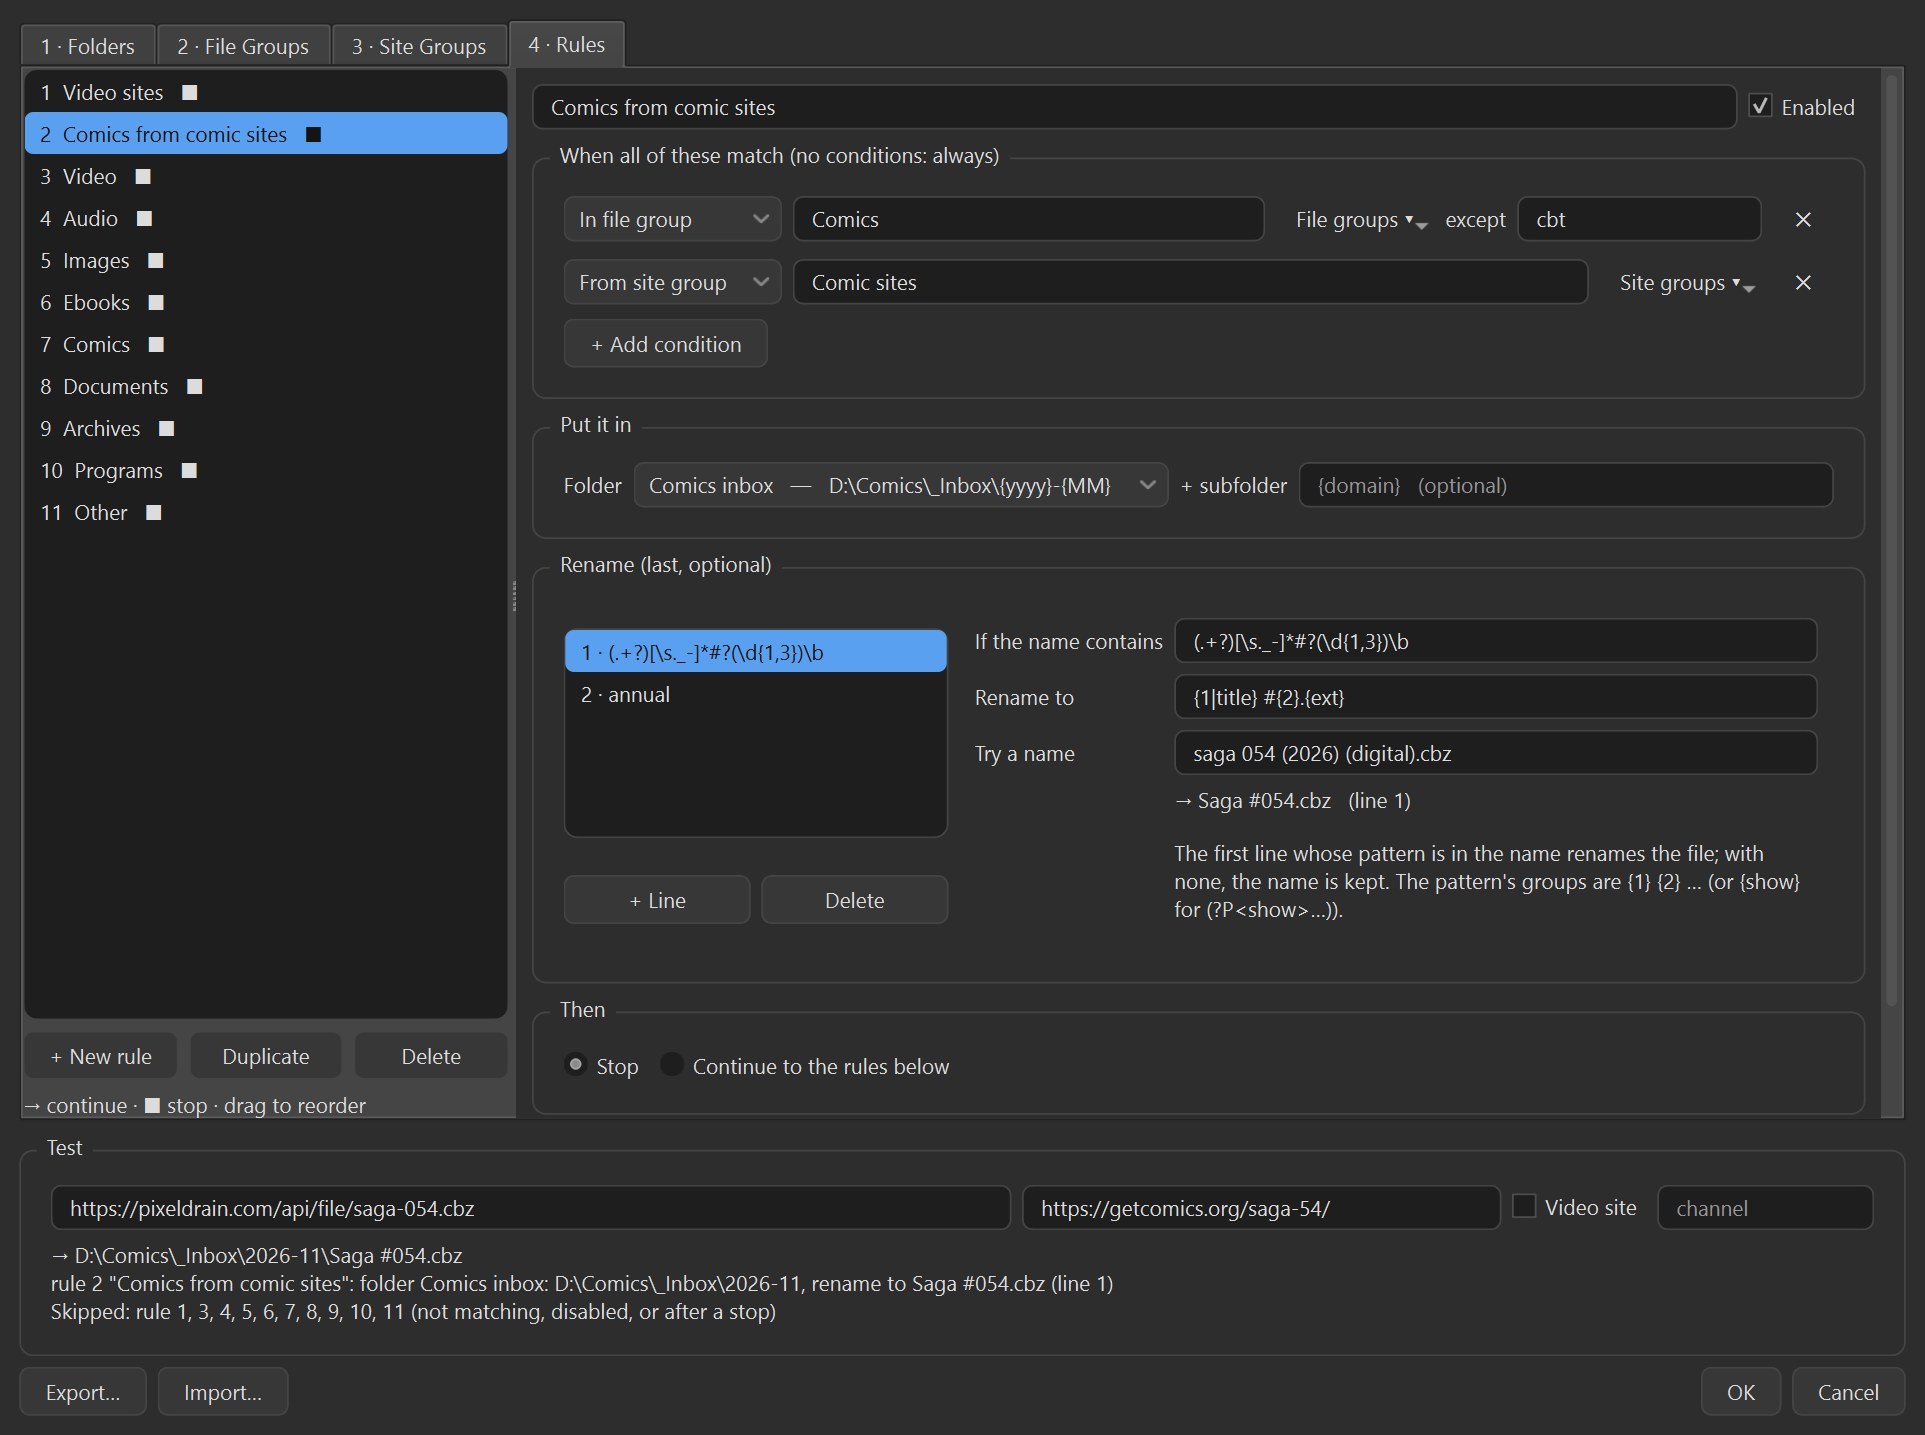
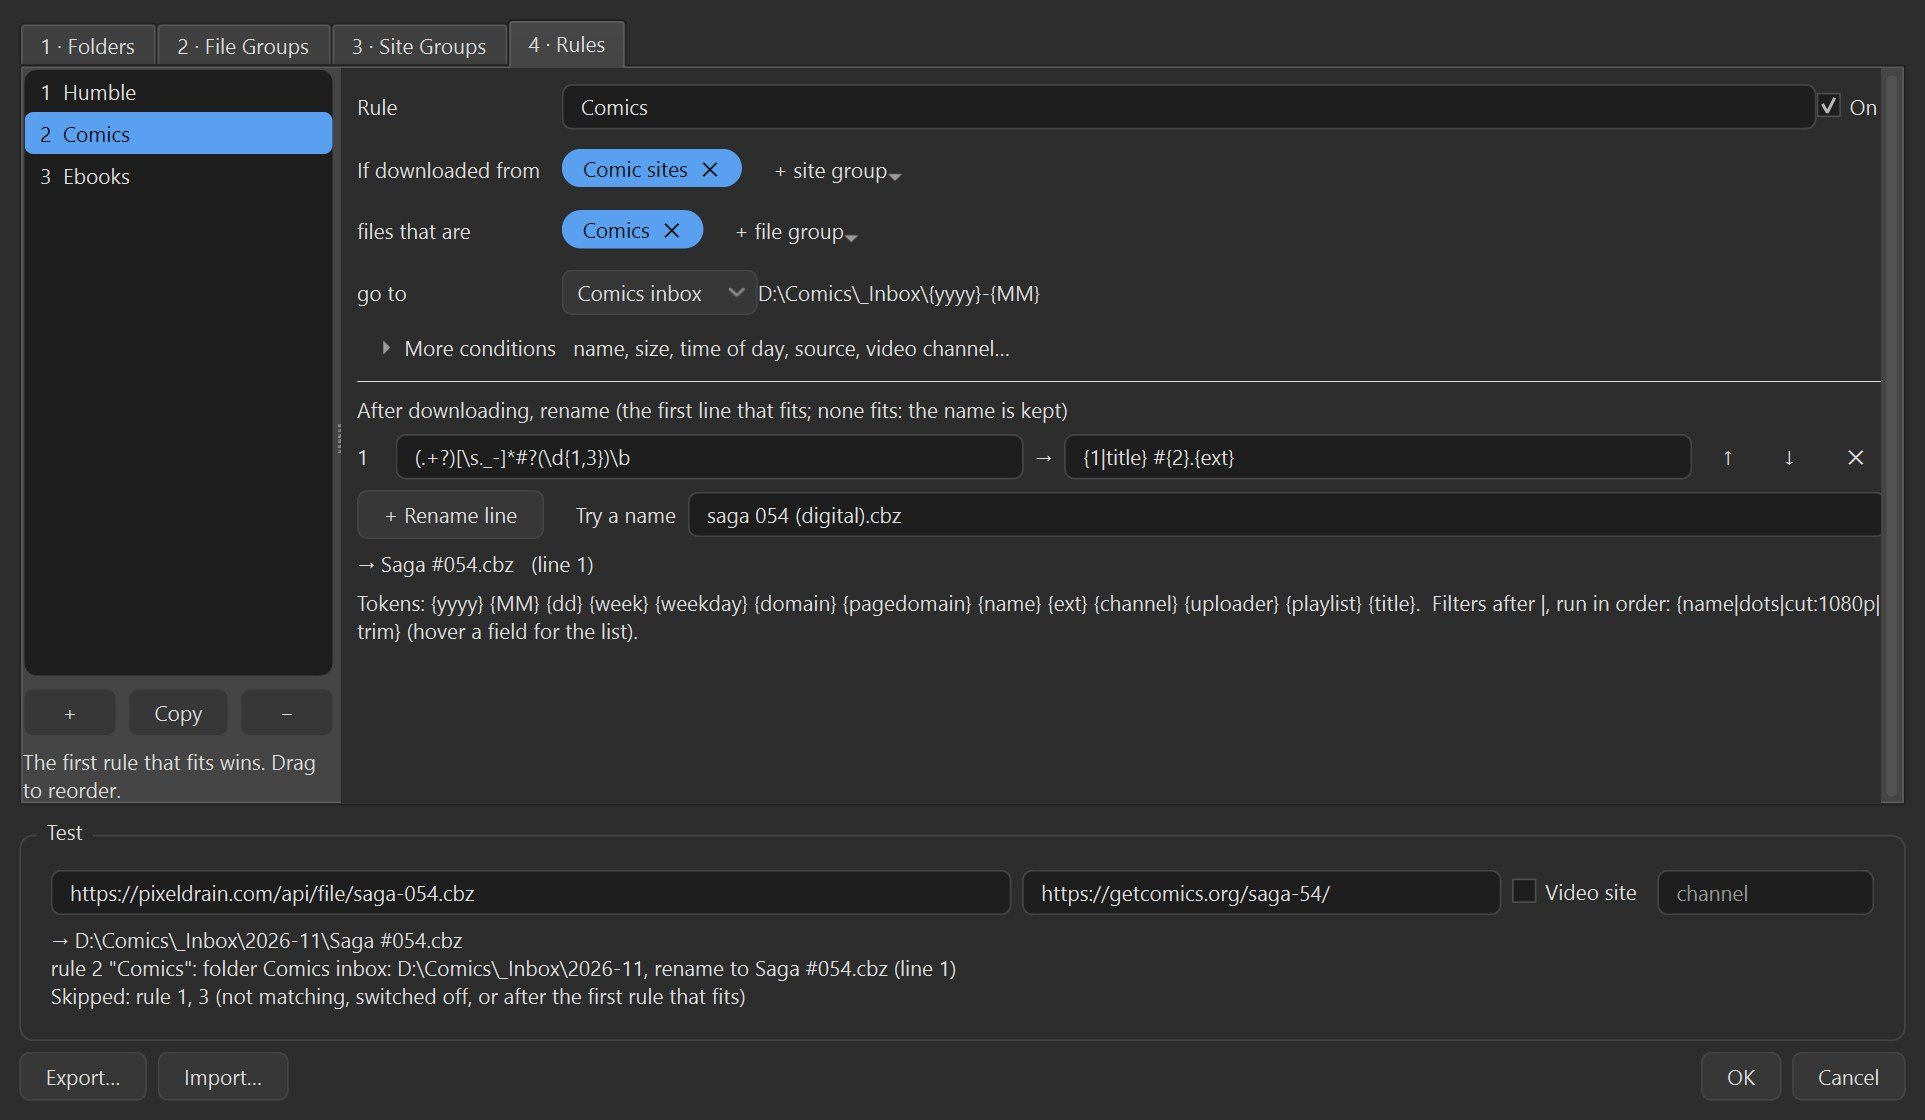
Accipio 2026-11-04#06: rules as one sentence, new Rules screenshot

diff --git a/accipio/index.html b/accipio/index.html
@@ -28,13 +28,13 @@
   "codeRepository": "https://github.com/Erlbon/accipio",
   "operatingSystem": "Windows 10, Windows 11",
   "applicationCategory": "UtilitiesApplication",
-  "softwareVersion": "2026-11-04#04",
+  "softwareVersion": "2026-11-04#06",
   "license": "https://opensource.org/license/mit",
   "screenshot": "https://erlbon.github.io/assets/img/screenshots/accipio-main-dark.jpg",
   "featureList": [
     "Named folders, file groups and site groups that rules point at, so one change moves every rule that uses them",
-    "An ordered list of rules, sorted by drag and drop, each stopping or letting the next rule add to it",
-    "Conditions: file group (with extensions left out per rule), site group matched on the page you clicked on, name (wildcards or regular expressions), size, time of day and weekday, and a video's channel, uploader, playlist or title",
+    "Rules written as one sentence: from these site groups, these file groups, to this folder; the first rule that fits wins",
+    "Conditions: file groups and site groups picked as chips (a site matched on the page you clicked on), and under More conditions name (wildcards or regular expressions), size, time of day and weekday, and a video's channel, uploader, playlist or title",
     "Folder templates with date tokens ({yyyy}, {MM}, {week}...) so folders rotate by the clock; missing folders are created",
     "A renamer at the end of a rule: regular-expression lines, the first that fits renames the file, with a try-it field",
     "Export and import of rules, folders and groups between PCs",
@@ -74,7 +74,7 @@
     <a class="btn secondary" href="https://github.com/Erlbon/accipio">Source on GitHub</a>
     <a class="btn secondary" href="https://github.com/Erlbon/accipio/blob/main/CHANGELOG.md">What changed, build by build</a>
   </div>
-  <p class="note">Build 2026-11-04#04. An installer of about 34&nbsp;MB that needs no admin rights, or a zip to run without installing. Free; the source is MIT-licensed.</p>
+  <p class="note">Build 2026-11-04#06. An installer of about 34&nbsp;MB that needs no admin rights, or a zip to run without installing. Free; the source is MIT-licensed.</p>
 
   <div class="screenshots">
     <figure>
@@ -82,8 +82,8 @@
       <figcaption>One table for everything: where each download went and which rule put it there. (Sample downloads.)</figcaption>
     </figure>
     <figure>
-      <img src="../assets/img/screenshots/accipio-rules-dark.jpg" alt="Accipio's Rules window with four tabs, Folders, File Groups, Site Groups and Rules. A rule named Comics from comic sites says: in file group Comics except cbt, from site group Comic sites; put it in the folder Comics inbox; and renames with a regular expression, shown turning saga 054 (2026) (digital).cbz into Saga #054.cbz. The test box below shows a file hosted on pixeldrain, clicked on getcomics.org, going to D:\Comics\_Inbox\2026-11." width="1925" height="1435" loading="lazy">
-      <figcaption>The Rules window: folders, file groups and site groups first, then the rules that use them, with the renamer last. (Sample rules.)</figcaption>
+      <img src="../assets/img/screenshots/accipio-rules-dark.jpg" alt="Accipio's Rules window with four tabs, Folders, File Groups, Site Groups and Rules. A narrow list of three rules on the left; the rule Comics reads as a sentence: if downloaded from Comic sites, files that are Comics, go to Comics inbox, then a rename line turning saga 054 (digital).cbz into Saga #054.cbz. The test box below shows a file hosted on pixeldrain, clicked on getcomics.org, going to D:\Comics\_Inbox\2026-11." width="1925" height="1120" loading="lazy">
+      <figcaption>A rule reads as one sentence: from these sites, these kinds of file, to this folder, renamed like this. (Sample rules.)</figcaption>
     </figure>
   </div>
 
@@ -93,7 +93,7 @@
     <li><strong>Folders.</strong> First Default, which you point anywhere. Then named places, under Default (<em>Comics</em> = <code>%default%\Comics</code>) or anywhere else (<em>Comics inbox</em> = <code>D:\Comics\_Inbox\{yyyy}-{MM}</code>). Tokens such as <code>{yyyy}</code>, <code>{MM}</code>, <code>{week}</code>, <code>{domain}</code> and <code>{uploader}</code> make folders rotate by the clock; missing folders are created when a download starts. Rules pick a folder by name, so moving it here moves every rule that uses it.</li>
     <li><strong>File groups:</strong> what a download is. Extensions (<code>cbz, cbr, cb7</code>) and name wildcards (<code>*invoice*</code>), any one of them enough. The built-in groups (Video, Audio, Images, Documents, Ebooks, Comics, Archives, Programs) can be edited, say to move <code>iso</code> out of Archives into a group of its own.</li>
     <li><strong>Site groups</strong> (optional): where a download comes from. A site matches the page you clicked the link on, the file&rsquo;s own address, or either, so a link site whose files sit on file hosters is still caught through its page.</li>
-    <li><strong>Rules, in your order.</strong> An ordered list you sort by dragging. A rule says when it applies (in a file group, with single extensions left out if you like; from a site group; the name, with wildcards or regular expressions; the size; the time of day and weekday; for videos the channel, uploader, playlist or title), which folder the download goes to, and then stops or lets the rules below add to it.</li>
+    <li><strong>Rules, each one sentence.</strong> <em>If downloaded from</em> these site groups, <em>files that are</em> these file groups <em>go to</em> this folder. Groups are picked from a list, several at once; none means anywhere or any file. Rarer conditions (the name, with wildcards or regular expressions; the size; the time of day and weekday; for videos the channel, uploader, playlist or title) are folded away under More conditions. Rules are tried in the order you drag them into, and the first rule that fits wins.</li>
     <li><strong>A renamer, last in a rule.</strong> Lines of &ldquo;if the name contains <em>this regular expression</em>, rename to <em>that</em>&rdquo;, with the pattern&rsquo;s pieces as <code>{1}</code>, <code>{2}</code> and filters such as <code>{1|dots|title}</code>. The first line that fits renames the file; with none, the name is kept. A try-it field shows the result as you type.</li>
     <li><strong>Export and import</strong> your rules, folders and groups, to set up a second PC the same way.</li>
     <li><strong>&ldquo;Why here?&rdquo;</strong> Hover a download, or use Downloads &gt; Why Here?, to see which rule placed it and why. The <strong>Add box</strong> checks pasted links first and shows where each one will go.</li>
